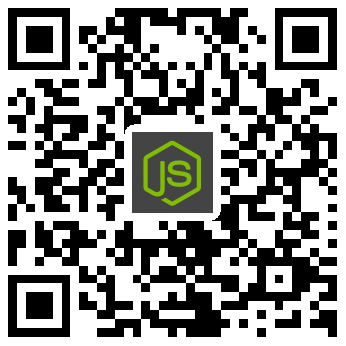
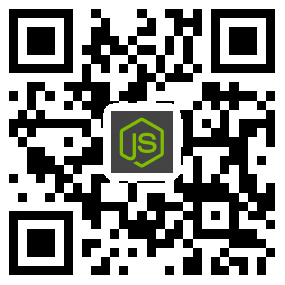
Deploy to Surge instead of GitHub Pages, change GA account

diff --git a/public/index.html b/public/index.html
@@ -51,7 +51,7 @@
       m=s.getElementsByTagName(o)[0];a.async=1;a.src=g;m.parentNode.insertBefore(a,m)
       })(window,document,'script','https://www.google-analytics.com/analytics.js','ga');
 
-      ga('create', 'UA-90183544-2', 'auto');
+      ga('create', 'UA-96190726-1', 'auto');
       ga('send', 'pageview');
     </script>
   </body>

diff --git a/README.en.md b/README.en.md
@@ -4,7 +4,7 @@ CNode PWA is a Progressive Web App, built with React, React Router and Redux.
 
 [![Build Status](https://travis-ci.org/pd4d10/cnode-pwa.svg?branch=master)](https://travis-ci.org/pd4d10/cnode-pwa)
 
-https://pd4d10.github.io/cnode-pwa/
+https://cnode.surge.sh
 
 <img src="assets/qrcode.png" width="250" alt="QRCode of link" />
 

diff --git a/README.md b/README.md
@@ -6,7 +6,7 @@
 
 CNode PWA 是使用 React，React Router 和 Redux 构建的 Progressive Web App。
 
-https://pd4d10.github.io/cnode-pwa/
+https://cnode.surge.sh
 
 移动设备可扫描以下二维码访问：
 
